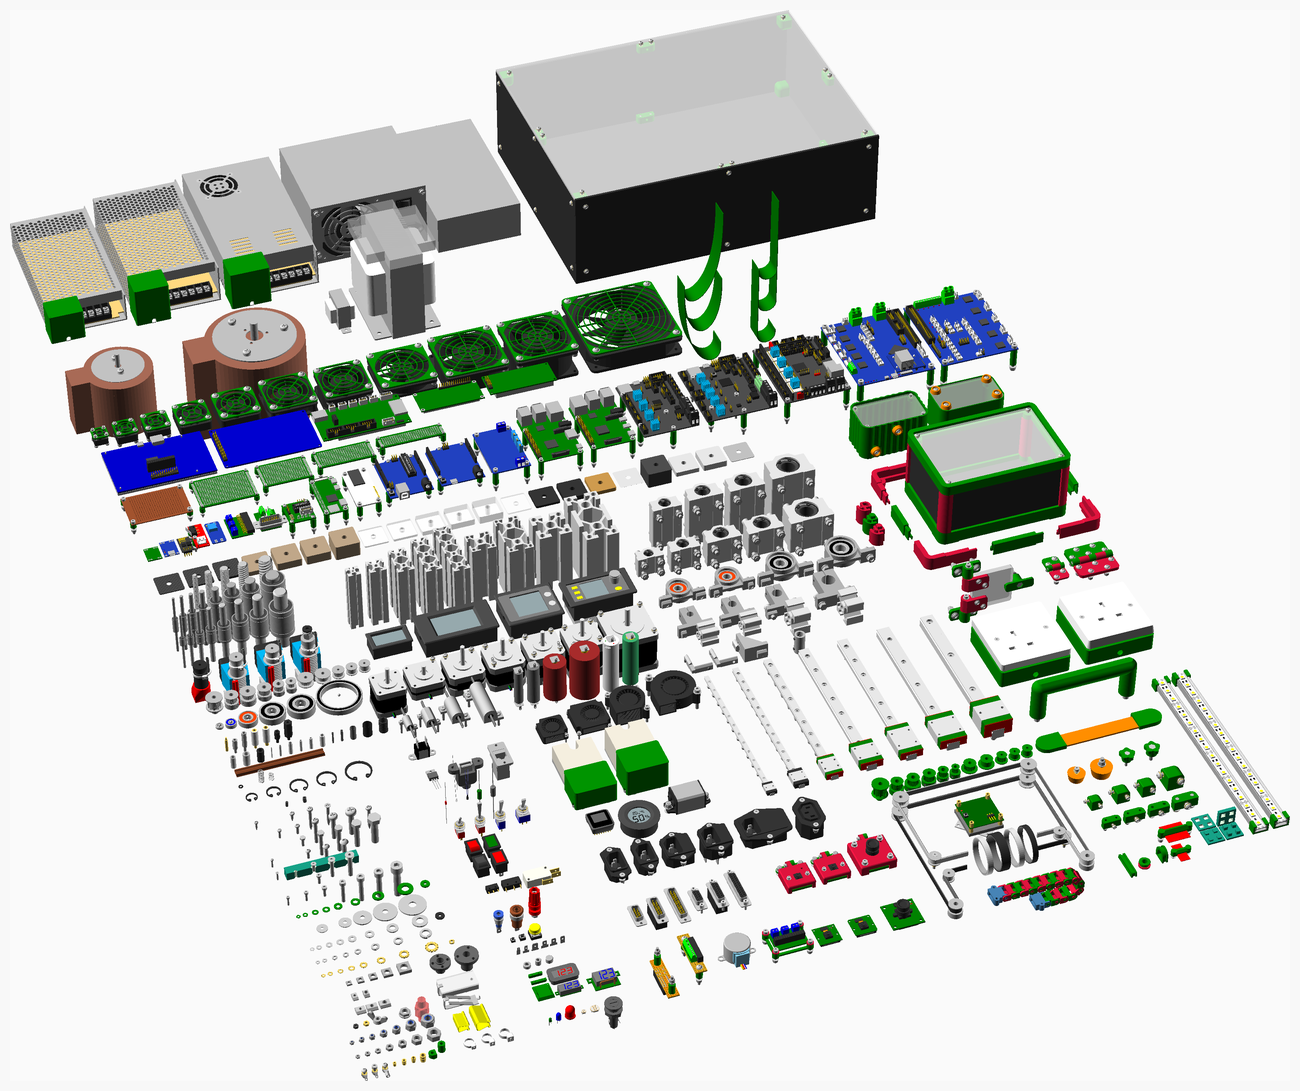
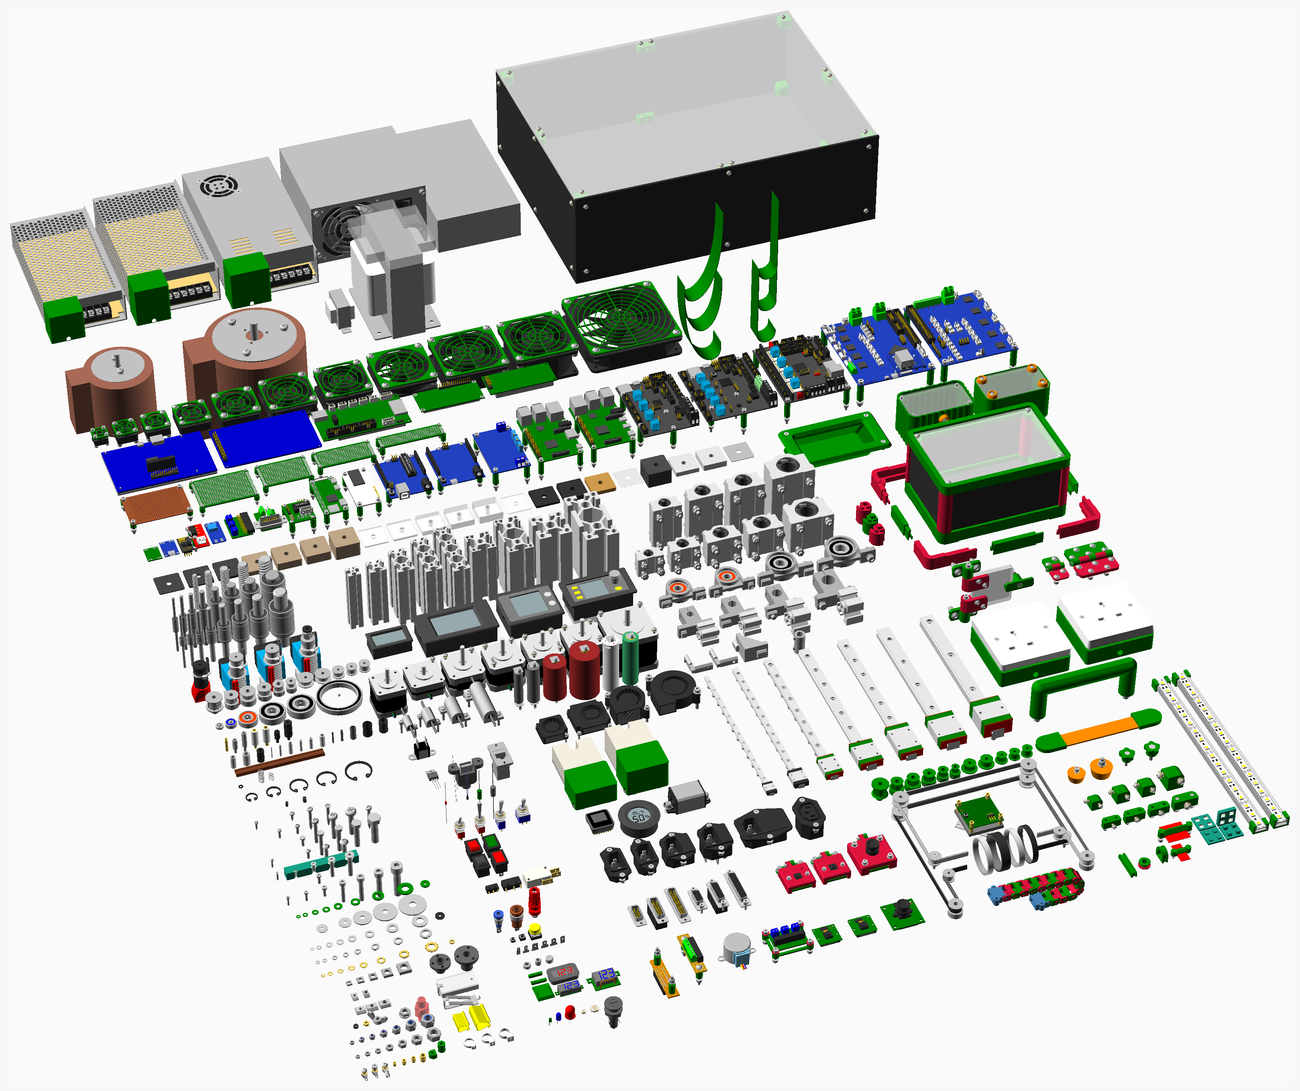
Added printed pocket_handle().

Changed region(s): [[0.5846, 0.3116, 0.8308, 0.4363]]

diff --git a/readme.md b/readme.md
@@ -35,15 +35,15 @@ See [usage](docs/usage.md) for requirements, installation instructions and a usa
 <tr><td> <a href = "#Displays">Displays</a> </td><td> <a href = "#Nuts">Nuts</a> </td><td> <a href = "#Spools">Spools</a> </td><td> <a href = "#Handle">Handle</a> </td><td> <a href = "#Rounded_cylinder">Rounded_cylinder</a> </td><td></td></tr>
 <tr><td> <a href = "#Extrusion_brackets">Extrusion_brackets</a> </td><td> <a href = "#O_ring">O_ring</a> </td><td> <a href = "#Springs">Springs</a> </td><td> <a href = "#PCB_mount">PCB_mount</a> </td><td> <a href = "#Rounded_polygon">Rounded_polygon</a> </td><td></td></tr>
 <tr><td> <a href = "#Extrusions">Extrusions</a> </td><td> <a href = "#Opengrab">Opengrab</a> </td><td> <a href = "#Stepper_motors">Stepper_motors</a> </td><td> <a href = "#PSU_shroud">PSU_shroud</a> </td><td> <a href = "#Rounded_right_triangle">Rounded_right_triangle</a> </td><td></td></tr>
-<tr><td> <a href = "#Fans">Fans</a> </td><td> <a href = "#PCB">PCB</a> </td><td> <a href = "#Swiss_clips">Swiss_clips</a> </td><td> <a href = "#Press_fit">Press_fit</a> </td><td> <a href = "#Sector">Sector</a> </td><td></td></tr>
-<tr><td> <a href = "#Fuseholder">Fuseholder</a> </td><td> <a href = "#PCBs">PCBs</a> </td><td> <a href = "#Toggles">Toggles</a> </td><td> <a href = "#Printed_box">Printed_box</a> </td><td> <a href = "#Sweep">Sweep</a> </td><td></td></tr>
-<tr><td> <a href = "#Geared_steppers">Geared_steppers</a> </td><td> <a href = "#PSUs">PSUs</a> </td><td> <a href = "#Transformers">Transformers</a> </td><td> <a href = "#Printed_pulleys">Printed_pulleys</a> </td><td> <a href = "#Thread">Thread</a> </td><td></td></tr>
-<tr><td> <a href = "#Green_terminals">Green_terminals</a> </td><td> <a href = "#Panel_meters">Panel_meters</a> </td><td> <a href = "#Tubings">Tubings</a> </td><td> <a href = "#Ribbon_clamp">Ribbon_clamp</a> </td><td> <a href = "#Tube">Tube</a> </td><td></td></tr>
-<tr><td> <a href = "#Hot_ends">Hot_ends</a> </td><td> <a href = "#Pillars">Pillars</a> </td><td> <a href = "#Variacs">Variacs</a> </td><td> <a href = "#SSR_shroud">SSR_shroud</a> </td><td></td><td></td></tr>
-<tr><td> <a href = "#Hygrometer">Hygrometer</a> </td><td> <a href = "#Pin_headers">Pin_headers</a> </td><td> <a href = "#Veroboard">Veroboard</a> </td><td> <a href = "#Screw_knob">Screw_knob</a> </td><td></td><td></td></tr>
-<tr><td> <a href = "#IECs">IECs</a> </td><td> <a href = "#Pulleys">Pulleys</a> </td><td> <a href = "#Washers">Washers</a> </td><td> <a href = "#Socket_box">Socket_box</a> </td><td></td><td></td></tr>
-<tr><td> <a href = "#Inserts">Inserts</a> </td><td></td><td> <a href = "#Wire">Wire</a> </td><td> <a href = "#Strap_handle">Strap_handle</a> </td><td></td><td></td></tr>
-<tr><td></td><td></td><td> <a href = "#Zipties">Zipties</a> </td><td></td><td></td><td></td></tr>
+<tr><td> <a href = "#Fans">Fans</a> </td><td> <a href = "#PCB">PCB</a> </td><td> <a href = "#Swiss_clips">Swiss_clips</a> </td><td> <a href = "#Pocket_handle">Pocket_handle</a> </td><td> <a href = "#Sector">Sector</a> </td><td></td></tr>
+<tr><td> <a href = "#Fuseholder">Fuseholder</a> </td><td> <a href = "#PCBs">PCBs</a> </td><td> <a href = "#Toggles">Toggles</a> </td><td> <a href = "#Press_fit">Press_fit</a> </td><td> <a href = "#Sweep">Sweep</a> </td><td></td></tr>
+<tr><td> <a href = "#Geared_steppers">Geared_steppers</a> </td><td> <a href = "#PSUs">PSUs</a> </td><td> <a href = "#Transformers">Transformers</a> </td><td> <a href = "#Printed_box">Printed_box</a> </td><td> <a href = "#Thread">Thread</a> </td><td></td></tr>
+<tr><td> <a href = "#Green_terminals">Green_terminals</a> </td><td> <a href = "#Panel_meters">Panel_meters</a> </td><td> <a href = "#Tubings">Tubings</a> </td><td> <a href = "#Printed_pulleys">Printed_pulleys</a> </td><td> <a href = "#Tube">Tube</a> </td><td></td></tr>
+<tr><td> <a href = "#Hot_ends">Hot_ends</a> </td><td> <a href = "#Pillars">Pillars</a> </td><td> <a href = "#Variacs">Variacs</a> </td><td> <a href = "#Ribbon_clamp">Ribbon_clamp</a> </td><td></td><td></td></tr>
+<tr><td> <a href = "#Hygrometer">Hygrometer</a> </td><td> <a href = "#Pin_headers">Pin_headers</a> </td><td> <a href = "#Veroboard">Veroboard</a> </td><td> <a href = "#SSR_shroud">SSR_shroud</a> </td><td></td><td></td></tr>
+<tr><td> <a href = "#IECs">IECs</a> </td><td> <a href = "#Pulleys">Pulleys</a> </td><td> <a href = "#Washers">Washers</a> </td><td> <a href = "#Screw_knob">Screw_knob</a> </td><td></td><td></td></tr>
+<tr><td> <a href = "#Inserts">Inserts</a> </td><td></td><td> <a href = "#Wire">Wire</a> </td><td> <a href = "#Socket_box">Socket_box</a> </td><td></td><td></td></tr>
+<tr><td></td><td></td><td> <a href = "#Zipties">Zipties</a> </td><td> <a href = "#Strap_handle">Strap_handle</a> </td><td></td><td></td></tr>
 </table>
 
 ---
@@ -4954,6 +4954,56 @@ The stl must be given a parameterless wrapper in the project that uses it.
 | Qty | Filename |
 | ---:|:--- |
 |   1 | pcb_mount_PI_IO_5.stl |
+
+
+<a href="#top">Top</a>
+
+---
+<a name="Pocket_handle"></a>
+## Pocket_handle
+Customisable pocket handle
+
+[printed/pocket_handle.scad](printed/pocket_handle.scad) Implementation.
+
+[tests/pocket_handle.scad](tests/pocket_handle.scad) Code for this example.
+
+### Properties
+| Function | Description |
+|:--- |:--- |
+| `pocket_handle_hand_size(type)` | Size of the hole for the fingers |
+| `pocket_handle_panel_t(type)` | Thickness of the panel it is mounted in |
+| `pocket_handle_rad(type)` | Min corner rad |
+| `pocket_handle_screw(type)` | Screw type, can be countersunk or not |
+| `pocket_handle_slant(type)` | Upward slant of the hand hole |
+| `pocket_handle_wall(type)` | Wall thickness |
+
+### Functions
+| Function | Description |
+|:--- |:--- |
+| `pocket_handle(hand_size = [90, 40, 40], slant = 35, screw = M3_cs_cap_screw, panel_t = 3, wall = 4, rad = 4)` | Construct a pocket_handle property list |
+| `pocket_handle_flange(type)` | Size of the flange |
+
+### Modules
+| Module | Description |
+|:--- |:--- |
+| `pocket_handle(type)` | Generate STL for pocket_handle |
+| `pocket_handle_assembly(type)` | Assembly with fasteners in place |
+| `pocket_handle_hole_positions(type)` | Place children at screw hole positions |
+| `pocket_handle_holes(type, h = 0)` | Panel cutout and screw holes |
+
+![pocket_handle](tests/png/pocket_handle.png)
+
+### Vitamins
+| Qty | Module call | BOM entry |
+| ---:|:--- |:---|
+|   4 | `nut(M3_nut, nyloc = true)` |  Nut M3 x 2.4mm nyloc |
+|   4 | `screw(M3_cs_cap_screw, 12)` |  Screw M3 cs cap x 12mm |
+|   4 | `washer(M3_washer)` |  Washer  M3 x 7mm x 0.5mm |
+
+### Printed
+| Qty | Filename |
+| ---:|:--- |
+|   1 | pocket_handle.stl |
 
 
 <a href="#top">Top</a>
